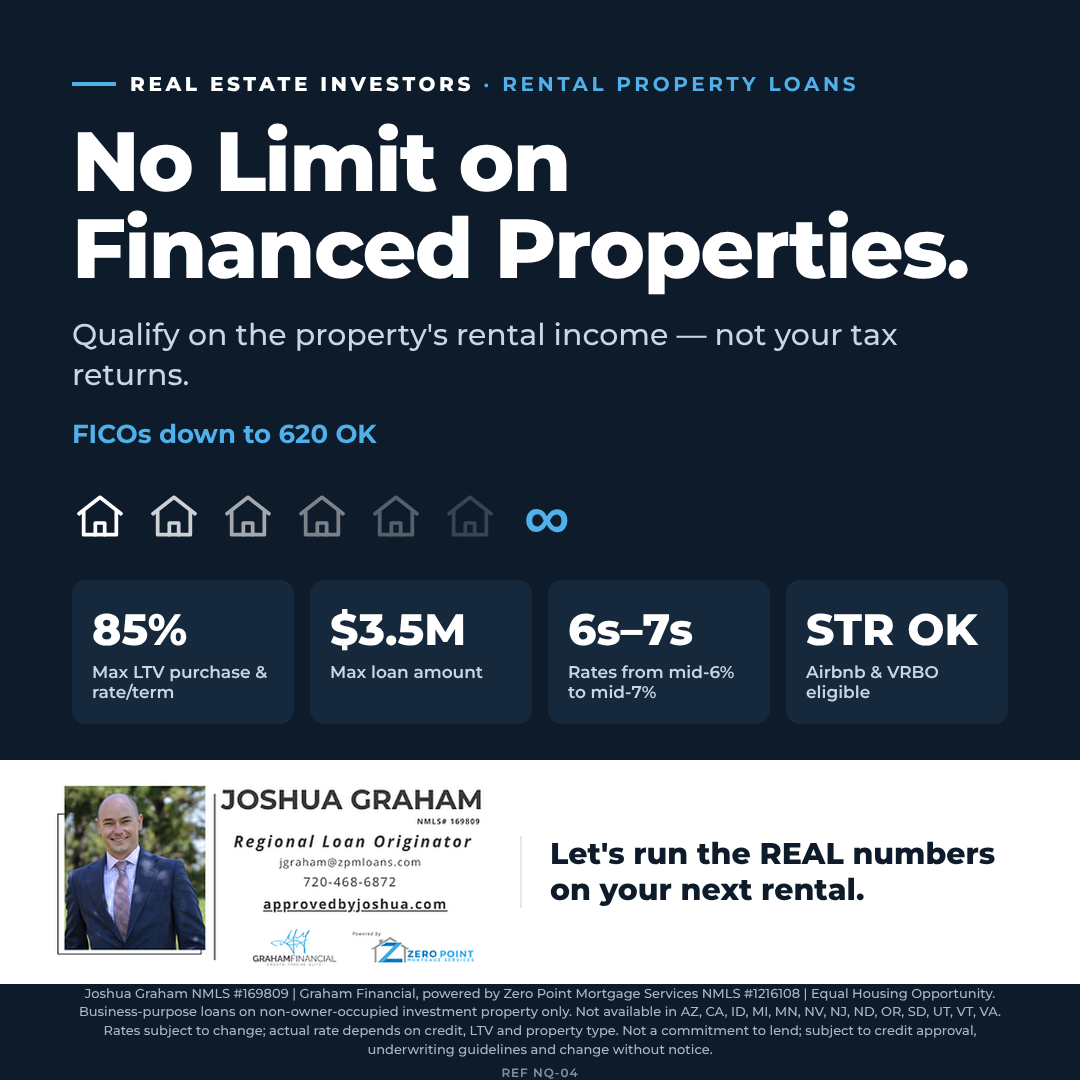
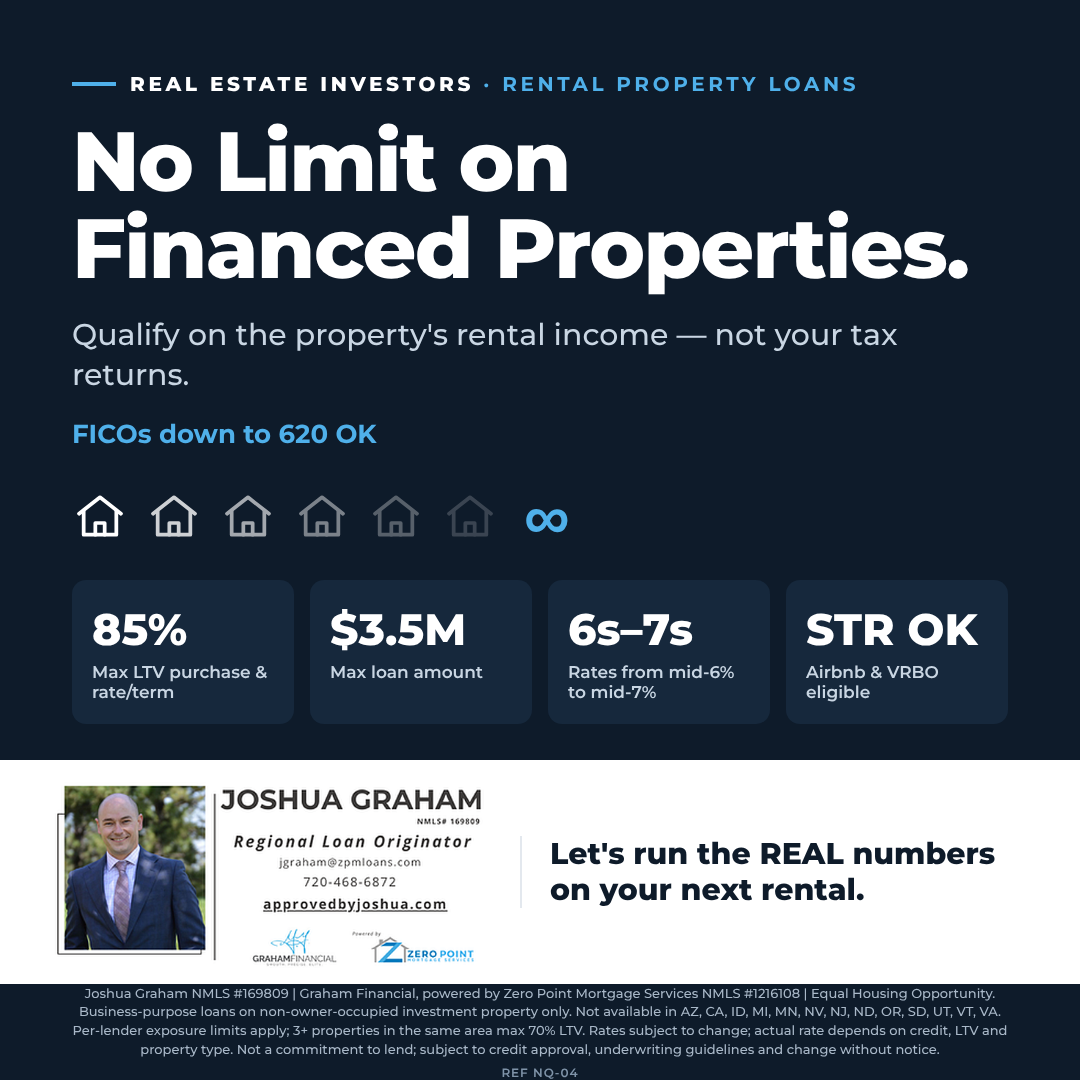
Save point: FLOW-01 cash flow brand card, CASH-01 & NQ-04 matrix fixes, booking-link CTA
- CASH-01: 80% cash out tied to loans <= $1M; $500K cash-in-hand cap above 75% LTV in footer
- NQ-04: per-lender exposure + same-area 70% LTV note in footer
- PostKit: Copy post + booking link / Copy booking CTA; full post falls back to booking link

Claude-Session: https://claude.ai/code/session_01HF5EFoWpB6dZDERsWsq2kx

Changed region(s): [[0.0917, 0.9472, 0.9167, 0.9778]]

diff --git a/src/smart-money/data.js b/src/smart-money/data.js
@@ -8,6 +8,8 @@ export const BRAND = {
   email: "jgraham@grahamfinancial.us",
   phone: "720-468-6872",
   site: "approvedbyjoshua.com",
+  booking: "https://calendar.app.google/khAdKK7Dx4HqGBWF6",
+  bookingCta: "Book your 15 min with me. NOT a sales call. It's free to find out 👉 https://calendar.app.google/khAdKK7Dx4HqGBWF6",
 };
 
 // Where every post sends people. `path` = landing page in this app; null = not built yet.
@@ -122,16 +124,16 @@ Plug your numbers in and see exactly where it lands 👇`,
     ref: "CASH-01A", bank: "nonqm", name: "Rental Cash Out (A: next down payment)", lender: "RISE TPO",
     audience: "investor", license: "none", flyer: "/smart-money/flyers/CASH-01A.png", footer: "business",
     painPoints: ["equity-trapped", "fast-cash", "self-employed"], magnet: "rental-calc", skool: "Investors",
-    highlights: ["Cash out up to 80% LTV (720+ FICO)", "Qualify on the property's rent, not income", "15, 30 & 40-yr fixed + interest-only", "1–4 unit rentals, loans to $1M", "Short-term rentals OK (max 70% LTV cash out)"],
-    notes: "Split test with CASH-01A/B/C: same copy body, headline differs. 80% LTV cash out needs 720+ FICO; keep that next to the 80%. STR: 5% LTV reduction, max 70% cash out. No rates on this flyer.",
+    highlights: ["Cash out up to 80% LTV (720+ FICO, loans to $1M)", "Qualify on the property's rent, not income", "15, 30 & 40-yr fixed + interest-only", "1–4 unit rentals (single family to fourplex)", "Short-term rentals OK (max 70% LTV cash out)"],
+    notes: "Split test with CASH-01A/B/C: same copy body, headline differs. 80% LTV cash out needs 720+ FICO; keep that next to the 80%. STR: 5% LTV reduction, max 70% cash out. No rates on this flyer. Cash in hand max $500K above 75% LTV; 6 mos ownership for cash-out.",
     short: `Real estate investors: Your rentals are sitting on your next down payment.
 
 Pull equity out of the rentals you already own and put it to work on your next deal. You qualify on the property's rent, not your tax returns.
 
-✔ Cash out up to 80% LTV (720+ FICO)
+✔ Cash out up to 80% LTV (720+ FICO, loans to $1M)
 ✔ No employment or income docs
 ✔ 15, 30 & 40-year fixed, plus interest-only
-✔ 1–4 unit rentals, loans up to $1M
+✔ 1–4 unit rentals, single family to fourplex
 ✔ Short-term rentals OK (up to 70% cash out)
 
 Your equity, deployed. Your portfolio, expanded 👇`,
@@ -141,7 +143,7 @@ Most investors have more buying power than they think. It's just sitting in the 
 
 A rental cash-out loan lets you pull that equity without showing a W-2 or a tax return. The property's rent does the qualifying. If the rent covers the payment, you're in the conversation.
 
-Up to 80% LTV with a 720+ FICO. 15, 30 and 40-year fixed terms, plus interest-only options to keep cash flow strong. 1–4 unit rentals, loans up to $1M. Short-term rentals count too, up to 70% cash out.
+Up to 80% LTV with a 720+ FICO on loans to $1M (cash in hand up to $500K above 75% LTV). 15, 30 and 40-year fixed terms, plus interest-only options to keep cash flow strong. 1–4 unit rentals. Short-term rentals count too, up to 70% cash out.
 
 Use it for the down payment on the next one, a rehab, or reserves.
 
@@ -217,16 +219,16 @@ Relocating to Colorado for a new position? Let's map it out before you sign a le
     ref: "CASH-01B", bank: "nonqm", name: "Rental Cash Out (B: no tax returns)", lender: "RISE TPO",
     audience: "investor", license: "none", flyer: "/smart-money/flyers/CASH-01B.png", footer: "business",
     painPoints: ["equity-trapped", "fast-cash", "self-employed"], magnet: "rental-calc", skool: "Investors",
-    highlights: ["Cash out up to 80% LTV (720+ FICO)", "Qualify on the property's rent, not income", "15, 30 & 40-yr fixed + interest-only", "1–4 unit rentals, loans to $1M", "Short-term rentals OK (max 70% LTV cash out)"],
-    notes: "Split test with CASH-01A/B/C: same copy body, headline differs. 80% LTV cash out needs 720+ FICO; keep that next to the 80%. STR: 5% LTV reduction, max 70% cash out. No rates on this flyer.",
+    highlights: ["Cash out up to 80% LTV (720+ FICO, loans to $1M)", "Qualify on the property's rent, not income", "15, 30 & 40-yr fixed + interest-only", "1–4 unit rentals (single family to fourplex)", "Short-term rentals OK (max 70% LTV cash out)"],
+    notes: "Split test with CASH-01A/B/C: same copy body, headline differs. 80% LTV cash out needs 720+ FICO; keep that next to the 80%. STR: 5% LTV reduction, max 70% cash out. No rates on this flyer. Cash in hand max $500K above 75% LTV; 6 mos ownership for cash-out.",
     short: `Real estate investors: Pull cash out of your rentals. No tax returns.
 
 Pull equity out of the rentals you already own and put it to work on your next deal. You qualify on the property's rent, not your tax returns.
 
-✔ Cash out up to 80% LTV (720+ FICO)
+✔ Cash out up to 80% LTV (720+ FICO, loans to $1M)
 ✔ No employment or income docs
 ✔ 15, 30 & 40-year fixed, plus interest-only
-✔ 1–4 unit rentals, loans up to $1M
+✔ 1–4 unit rentals, single family to fourplex
 ✔ Short-term rentals OK (up to 70% cash out)
 
 Your equity, deployed. Your portfolio, expanded 👇`,
@@ -236,7 +238,7 @@ Most investors have more buying power than they think. It's just sitting in the 
 
 A rental cash-out loan lets you pull that equity without showing a W-2 or a tax return. The property's rent does the qualifying. If the rent covers the payment, you're in the conversation.
 
-Up to 80% LTV with a 720+ FICO. 15, 30 and 40-year fixed terms, plus interest-only options to keep cash flow strong. 1–4 unit rentals, loans up to $1M. Short-term rentals count too, up to 70% cash out.
+Up to 80% LTV with a 720+ FICO on loans to $1M (cash in hand up to $500K above 75% LTV). 15, 30 and 40-year fixed terms, plus interest-only options to keep cash flow strong. 1–4 unit rentals. Short-term rentals count too, up to 70% cash out.
 
 Use it for the down payment on the next one, a rehab, or reserves.
 
@@ -366,19 +368,51 @@ The only thing stopping most investors is not knowing who to call. Tap "Show me 
     },
   },
   {
+    ref: "FLOW-01", bank: "strategy", name: "The Name of the Game Is Cash Flow", lender: "Any business-purpose rental lender — RISE Core DSCR fits most",
+    audience: "investor", license: "none", flyer: "/smart-money/flyers/FLOW-01.png", footer: "business",
+    painPoints: ["self-employed", "portfolio-audit", "rent-short"], magnet: "rental-calc", skool: "Investors",
+    highlights: ["Qualify on the rent, not your income", "30 & 40-year fixed", "Interest-only to protect cash flow", "1–4 units and 5–8 unit buildings", "Short-term rentals OK (1–4 units)"],
+    notes: "Brand/strategy card. Flyer example: $300K loan at 7.00%, rent $2,600, taxes+insurance $450 → 30-yr P&I $1,996 (+$154/mo), 40-yr $1,864 (+$286), IO $1,750 (+$400). Illustrative only; IO is 10 yrs then payment rises. 5–8 units: experienced investors, no STR income, no 40-yr.",
+    short: `Real estate investors: the name of the game is cash flow.
+
+Not your W-2. Not your tax returns. If the property's rent covers the payment, you're in the conversation.
+
+✔ Qualify on the rent, not your income
+✔ 30 & 40-year fixed, plus interest-only to protect monthly cash flow
+✔ 1–4 units, and 5–8 unit buildings
+✔ Short-term rentals OK
+
+Let's run the REAL numbers on your next one 👇`,
+    long: `The name of the game is cash flow.
+
+Appreciation is a bonus. Cash flow is what keeps you in the game and lets you buy the next one.
+
+So why let a lender judge you on your tax returns? A rental cash-flow loan looks at the property: does the rent cover the payment? Structure it right with a 40-year term or interest-only, and the same property cash flows more every month.
+
+That's the difference between owning rentals and building a portfolio.
+
+Let's run the REAL numbers on your next one 👇`,
+    video: {
+      title: "Same property, more cash flow: it's the loan structure",
+      hook: "Two investors buy the same rental. One makes $154 a month, the other makes $400. The only difference is the loan.",
+      points: ["Why rental loans qualify on the rent, not your tax return", "30-year vs 40-year vs interest-only: what each does to monthly cash flow", "When interest-only makes sense, and what happens when the IO period ends"],
+      cta: "Run your rental through the calculator, or book 15 minutes with me — links in the post.",
+    },
+  },
+  {
     ref: "CASH-01C", bank: "nonqm", name: "Rental Cash Out (C: up to 80%)", lender: "RISE TPO",
     audience: "investor", license: "none", flyer: "/smart-money/flyers/CASH-01C.png", footer: "business",
     painPoints: ["equity-trapped", "fast-cash", "self-employed"], magnet: "rental-calc", skool: "Investors",
-    highlights: ["Cash out up to 80% LTV (720+ FICO)", "Qualify on the property's rent, not income", "15, 30 & 40-yr fixed + interest-only", "1–4 unit rentals, loans to $1M", "Short-term rentals OK (max 70% LTV cash out)"],
-    notes: "Split test with CASH-01A/B/C: same copy body, headline differs. 80% LTV cash out needs 720+ FICO; keep that next to the 80%. STR: 5% LTV reduction, max 70% cash out. No rates on this flyer.",
+    highlights: ["Cash out up to 80% LTV (720+ FICO, loans to $1M)", "Qualify on the property's rent, not income", "15, 30 & 40-yr fixed + interest-only", "1–4 unit rentals (single family to fourplex)", "Short-term rentals OK (max 70% LTV cash out)"],
+    notes: "Split test with CASH-01A/B/C: same copy body, headline differs. 80% LTV cash out needs 720+ FICO; keep that next to the 80%. STR: 5% LTV reduction, max 70% cash out. No rates on this flyer. Cash in hand max $500K above 75% LTV; 6 mos ownership for cash-out.",
     short: `Real estate investors: Cash out up to 80%. Qualify on the rent.
 
 Pull equity out of the rentals you already own and put it to work on your next deal. You qualify on the property's rent, not your tax returns.
 
-✔ Cash out up to 80% LTV (720+ FICO)
+✔ Cash out up to 80% LTV (720+ FICO, loans to $1M)
 ✔ No employment or income docs
 ✔ 15, 30 & 40-year fixed, plus interest-only
-✔ 1–4 unit rentals, loans up to $1M
+✔ 1–4 unit rentals, single family to fourplex
 ✔ Short-term rentals OK (up to 70% cash out)
 
 Your equity, deployed. Your portfolio, expanded 👇`,
@@ -388,7 +422,7 @@ Most investors have more buying power than they think. It's just sitting in the 
 
 A rental cash-out loan lets you pull that equity without showing a W-2 or a tax return. The property's rent does the qualifying. If the rent covers the payment, you're in the conversation.
 
-Up to 80% LTV with a 720+ FICO. 15, 30 and 40-year fixed terms, plus interest-only options to keep cash flow strong. 1–4 unit rentals, loans up to $1M. Short-term rentals count too, up to 70% cash out.
+Up to 80% LTV with a 720+ FICO on loans to $1M (cash in hand up to $500K above 75% LTV). 15, 30 and 40-year fixed terms, plus interest-only options to keep cash flow strong. 1–4 unit rentals. Short-term rentals count too, up to 70% cash out.
 
 Use it for the down payment on the next one, a rehab, or reserves.
 

diff --git a/src/smart-money/SmartMoney.jsx b/src/smart-money/SmartMoney.jsx
@@ -88,7 +88,8 @@ function PostKit({ card, copyKind = "short" }) {
   const m = MAGNETS[card.magnet];
   const body = card[copyKind];
   const footer = FOOTERS[card.footer];
-  const full = `${body}${link ? `\n\n${link}` : ""}\n\n${footer}`;
+  const full = `${body}\n\n${link || BRAND.bookingCta}\n\n${footer}`;
+  const withBooking = `${body}${link ? `\n\n${link}` : ""}\n\n${BRAND.bookingCta}\n\n${footer}`;
   return (
     <div style={{ display: "flex", flexDirection: "column", gap: 12, minWidth: 0 }}>
       <div style={{ display: "flex", flexWrap: "wrap", gap: 6 }}>{audTag(card)}{licTag(card)}<Tag>REF {card.ref}</Tag></div>
@@ -96,7 +97,7 @@ function PostKit({ card, copyKind = "short" }) {
         <div style={{ fontSize: 12, fontWeight: 700, color: C.muted, textTransform: "uppercase", letterSpacing: "0.06em", marginBottom: 6 }}>Lead magnet</div>
         <div style={{ fontWeight: 700 }}>{m.name}</div>
         {link ? <div style={{ fontSize: 13, color: C.blue, wordBreak: "break-all", userSelect: "all" }}>{link}</div>
-              : <div style={{ fontSize: 13, color: C.warn }}>Not built yet — post without a link, or use "Message me" CTA in the copy.</div>}
+              : <div style={{ fontSize: 13, color: C.warn }}>Not built yet — "Copy full post" uses your booking link instead.</div>}
       </div>}
       <pre style={{ whiteSpace: "pre-wrap", fontFamily: F.body, fontSize: 14, lineHeight: 1.55, margin: 0, background: C.card, border: `1px solid ${C.line}`, borderRadius: 10, padding: 14 }}>{body}</pre>
       <div style={{ fontSize: 11, color: C.muted, lineHeight: 1.5 }}>{footer}</div>
@@ -104,6 +105,8 @@ function PostKit({ card, copyKind = "short" }) {
         <CopyBtn text={full} label="Copy full post" />
         <CopyBtn text={body} label="Copy text only" />
         {link && <CopyBtn text={link} label="Copy link" />}
+        <CopyBtn text={withBooking} label="Copy post + booking link" />
+        <CopyBtn text={BRAND.bookingCta} label="Copy booking CTA" />
         <CopyBtn text={footer} label="Copy footer" />
         {card.flyer && <a href={card.flyer} download={`${card.ref}.png`} style={{ ...ghost, textDecoration: "none", display: "inline-flex", alignItems: "center" }}>Download flyer</a>}
       </div>
